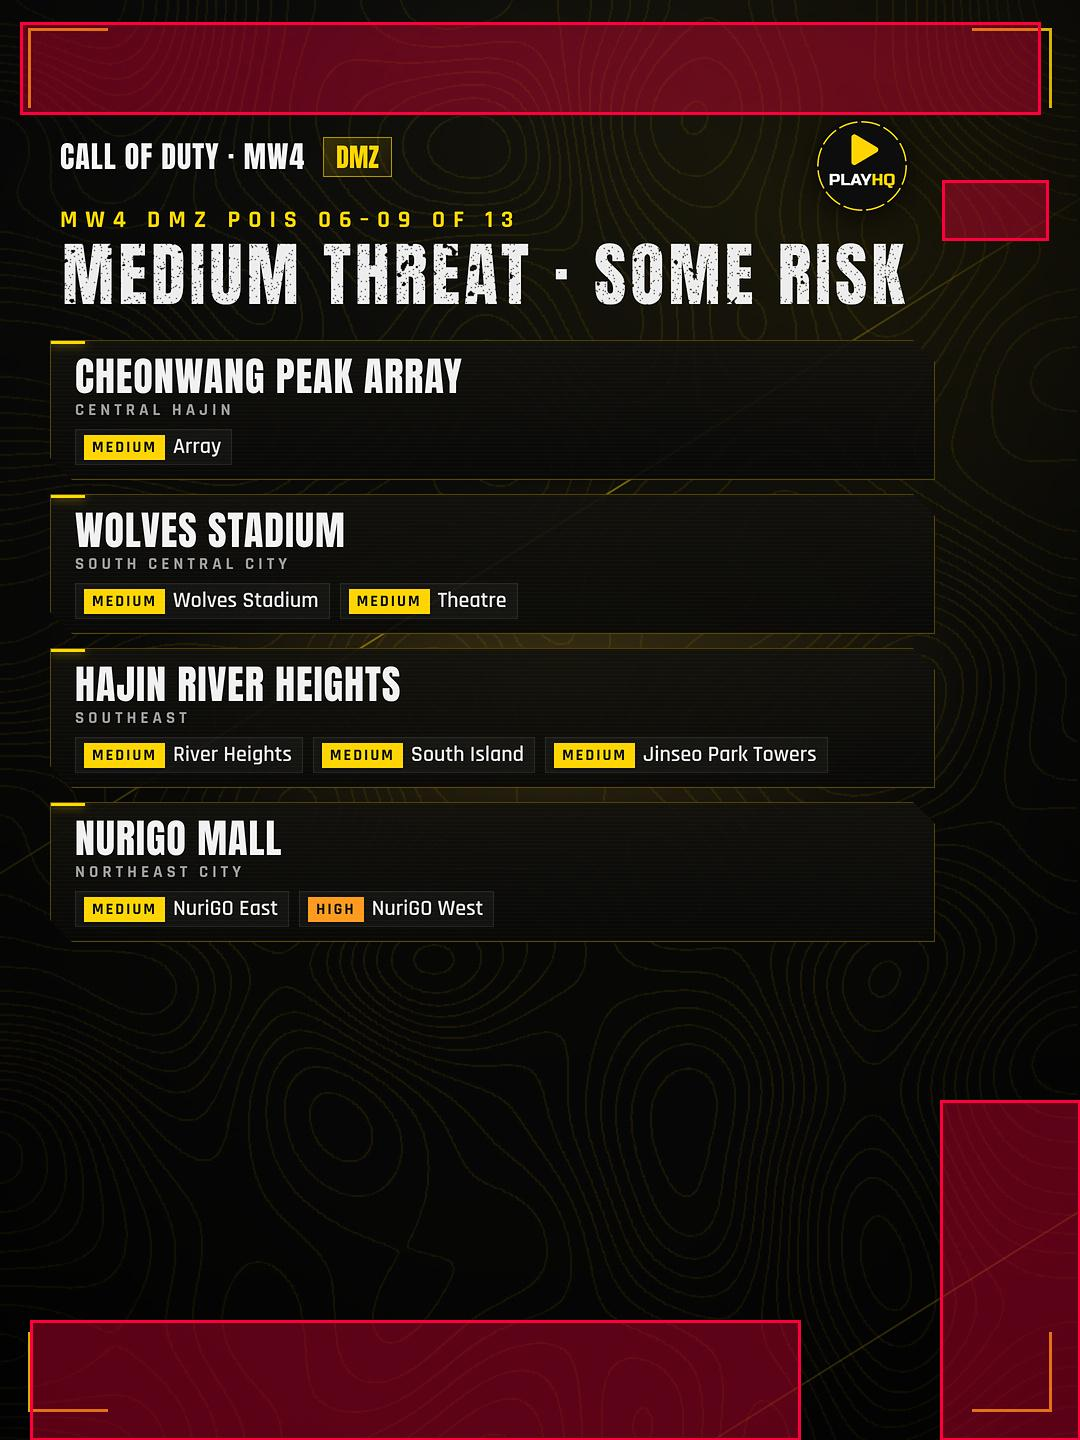
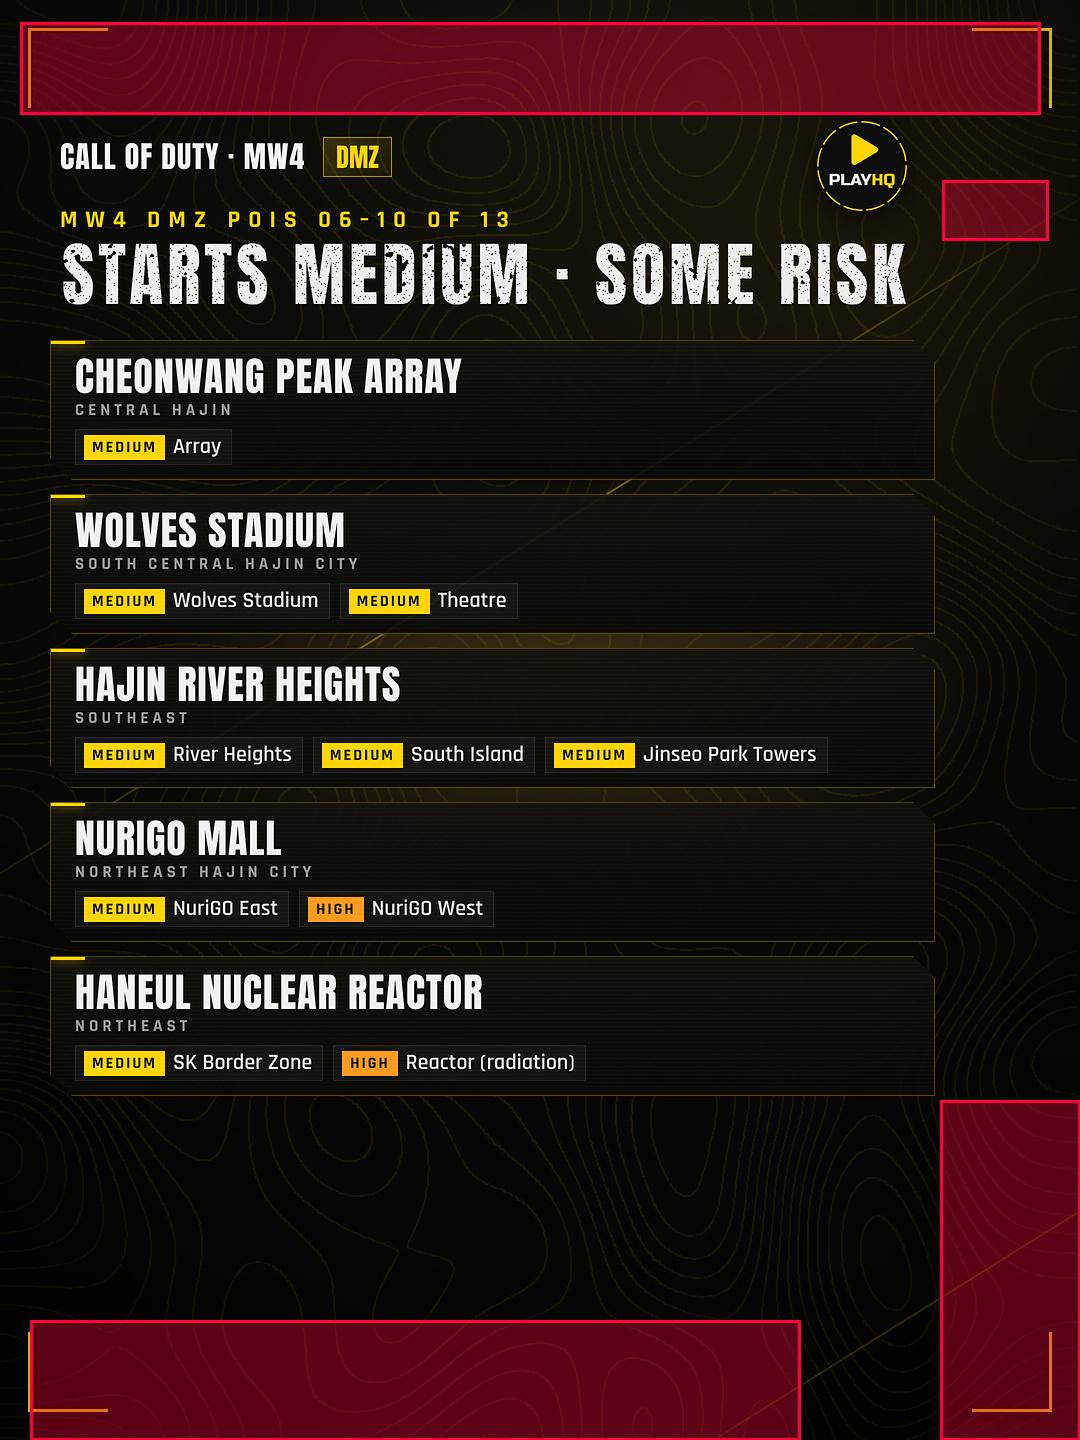
POI threat carousel: verifier fixes
Claude-Session: https://claude.ai/code/session_01LXyKCaXtAVVtiefghrjJL7

diff --git a/templates/meta-carousel/poi_render.py b/templates/meta-carousel/poi_render.py
@@ -75,7 +75,7 @@ def main(data_path, out_dir=None):
     os.makedirs(out_dir, exist_ok=True)
     tmp = os.path.join(R.HERE, '_build'); os.makedirs(tmp, exist_ok=True)
     P = d['pois']
-    groups = [(P[0:5], 'LOW THREAT · SAFER DROPS'), (P[5:9], 'MEDIUM THREAT · SOME RISK'), (P[9:13], 'HIGH TO EXTREME · LOOT + DANGER')]
+    groups = [(P[0:5], 'STARTS LOW · WATCH THE HOTSPOTS'), (P[5:10], 'STARTS MEDIUM · SOME RISK'), (P[10:13], 'HIGH TO EXTREME · LOOT + DANGER')]
     pages = [('01_cover', cover_slide(d))]
     n = 0
     for g, title in groups:
